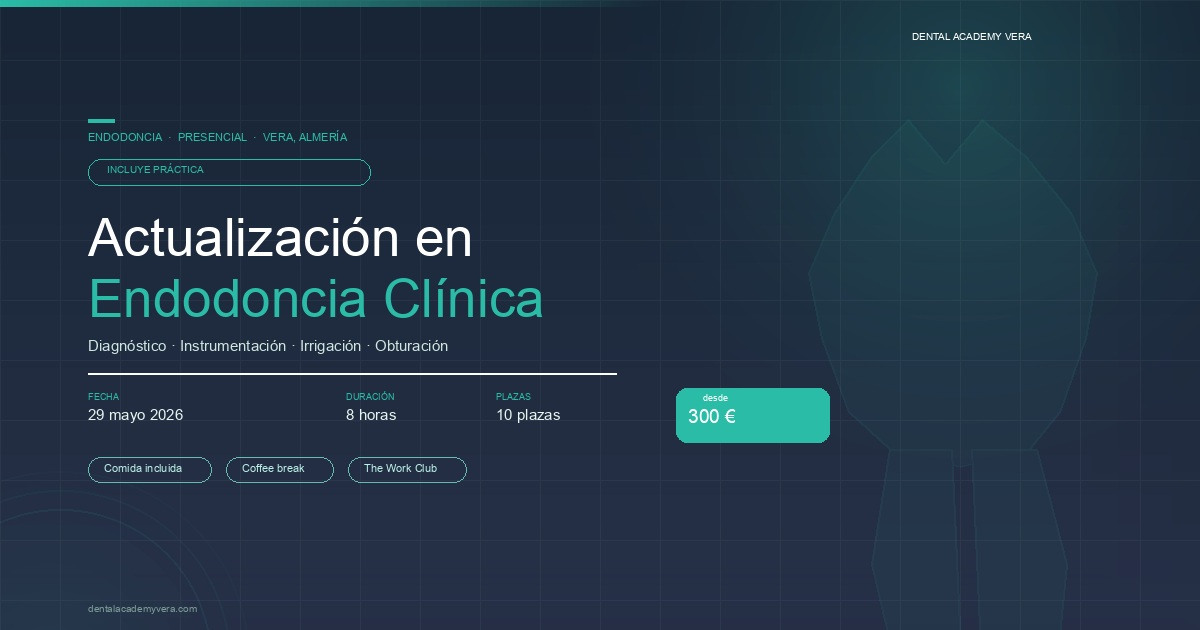
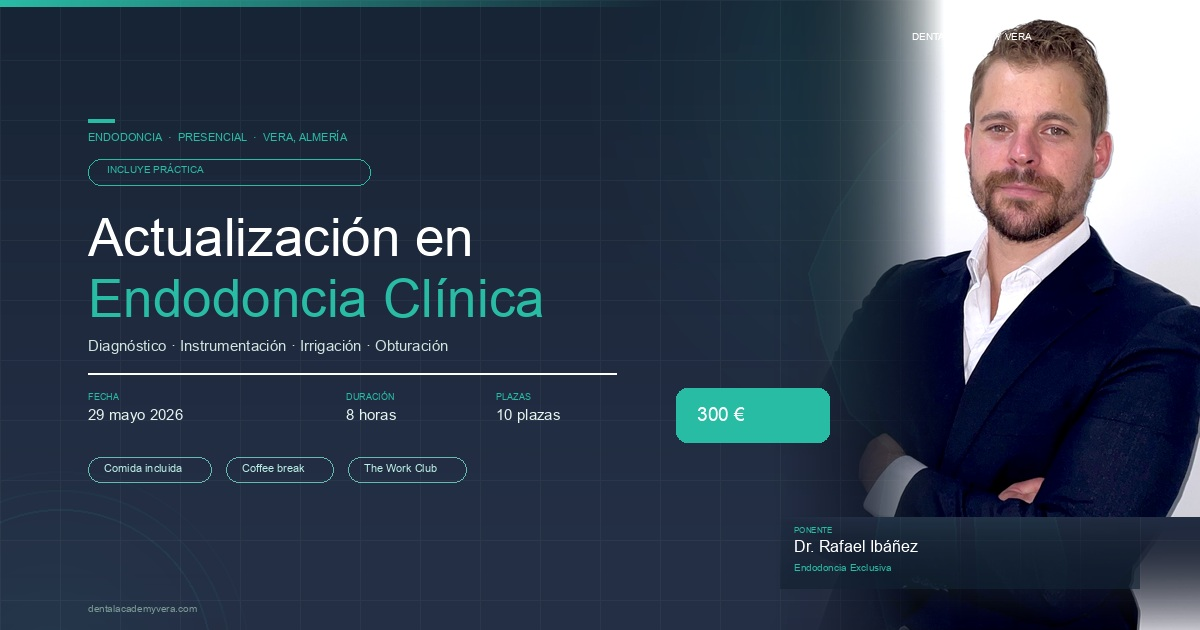
Remove 'desde'/IVA from prices; add professor photo to share images
- Price displays: remove 'desde' label and 'IVA no incluido' across
  Courses, course detail sticky bar, sidebar, opengraph and modal
- share-endodoncia-square.jpg / landscape.jpg: professor photo fades
  in from right with gradient blend, name block bottom-right
  (PONENTE label · Dr. Rafael Ibáñez · Endodoncia Exclusiva)

Changed region(s): [[0.6475, 0.0, 1.0, 1.0], [0.555, 0.6032, 0.6167, 0.6937]]

diff --git a/app/cursos/[id]/page.tsx b/app/cursos/[id]/page.tsx
@@ -202,7 +202,6 @@ export default async function CoursePage({ params }: Props) {
               <span className="font-display text-[1.6rem] font-bold text-navy">
                 {course.price} €
               </span>
-              <span className="font-label text-[0.78rem] text-gray-400">desde · IVA no incl.</span>
             </div>
             <div className="flex gap-3">
               <a
@@ -290,10 +289,9 @@ export default async function CoursePage({ params }: Props) {
               <div className="font-label text-[0.72rem] font-semibold tracking-[0.1em] uppercase text-gray-400 mb-1">
                 Inversión
               </div>
-              <div className="font-display text-[2.6rem] font-bold text-navy leading-none mb-1">
+              <div className="font-display text-[2.6rem] font-bold text-navy leading-none mb-6">
                 {course.price} €
               </div>
-              <div className="font-label text-[0.78rem] text-gray-400 mb-6">IVA no incluido</div>
 
               <div className="space-y-[10px]">
                 <a

diff --git a/app/cursos/[id]/opengraph-image.tsx b/app/cursos/[id]/opengraph-image.tsx
@@ -298,9 +298,6 @@ export default async function Image({ params }: { params: Promise<{ id: string }
                 alignItems: 'center',
               }}
             >
-              <span style={{ color: 'rgba(255,255,255,0.75)', fontSize: '12px', fontWeight: 600, letterSpacing: '0.06em', display: 'flex' }}>
-                desde
-              </span>
               <span style={{ color: 'white', fontSize: '28px', fontWeight: 800, lineHeight: 1.1, display: 'flex' }}>
                 {course.price} €
               </span>

diff --git a/components/Courses.tsx b/components/Courses.tsx
@@ -161,9 +161,6 @@ export default function Courses() {
               {/* Price + CTAs */}
               <div>
                 <div className="mb-5">
-                  <div className="font-label text-[0.72rem] text-white/40 tracking-[0.06em] uppercase mb-1">
-                    desde
-                  </div>
                   <div className="font-display text-[2.6rem] font-bold text-teal leading-none">
                     {course.price} €
                   </div>

diff --git a/components/CourseDetailModal.tsx b/components/CourseDetailModal.tsx
@@ -122,7 +122,6 @@ export default function CourseDetailModal({ course, onClose }: Props) {
               <div className="font-display text-[2rem] font-bold text-navy leading-none">
                 {course.price} €
               </div>
-              <div className="text-[0.75rem] text-gray-400 mt-1">IVA no incluido</div>
             </div>
 
             {/* Professor */}
